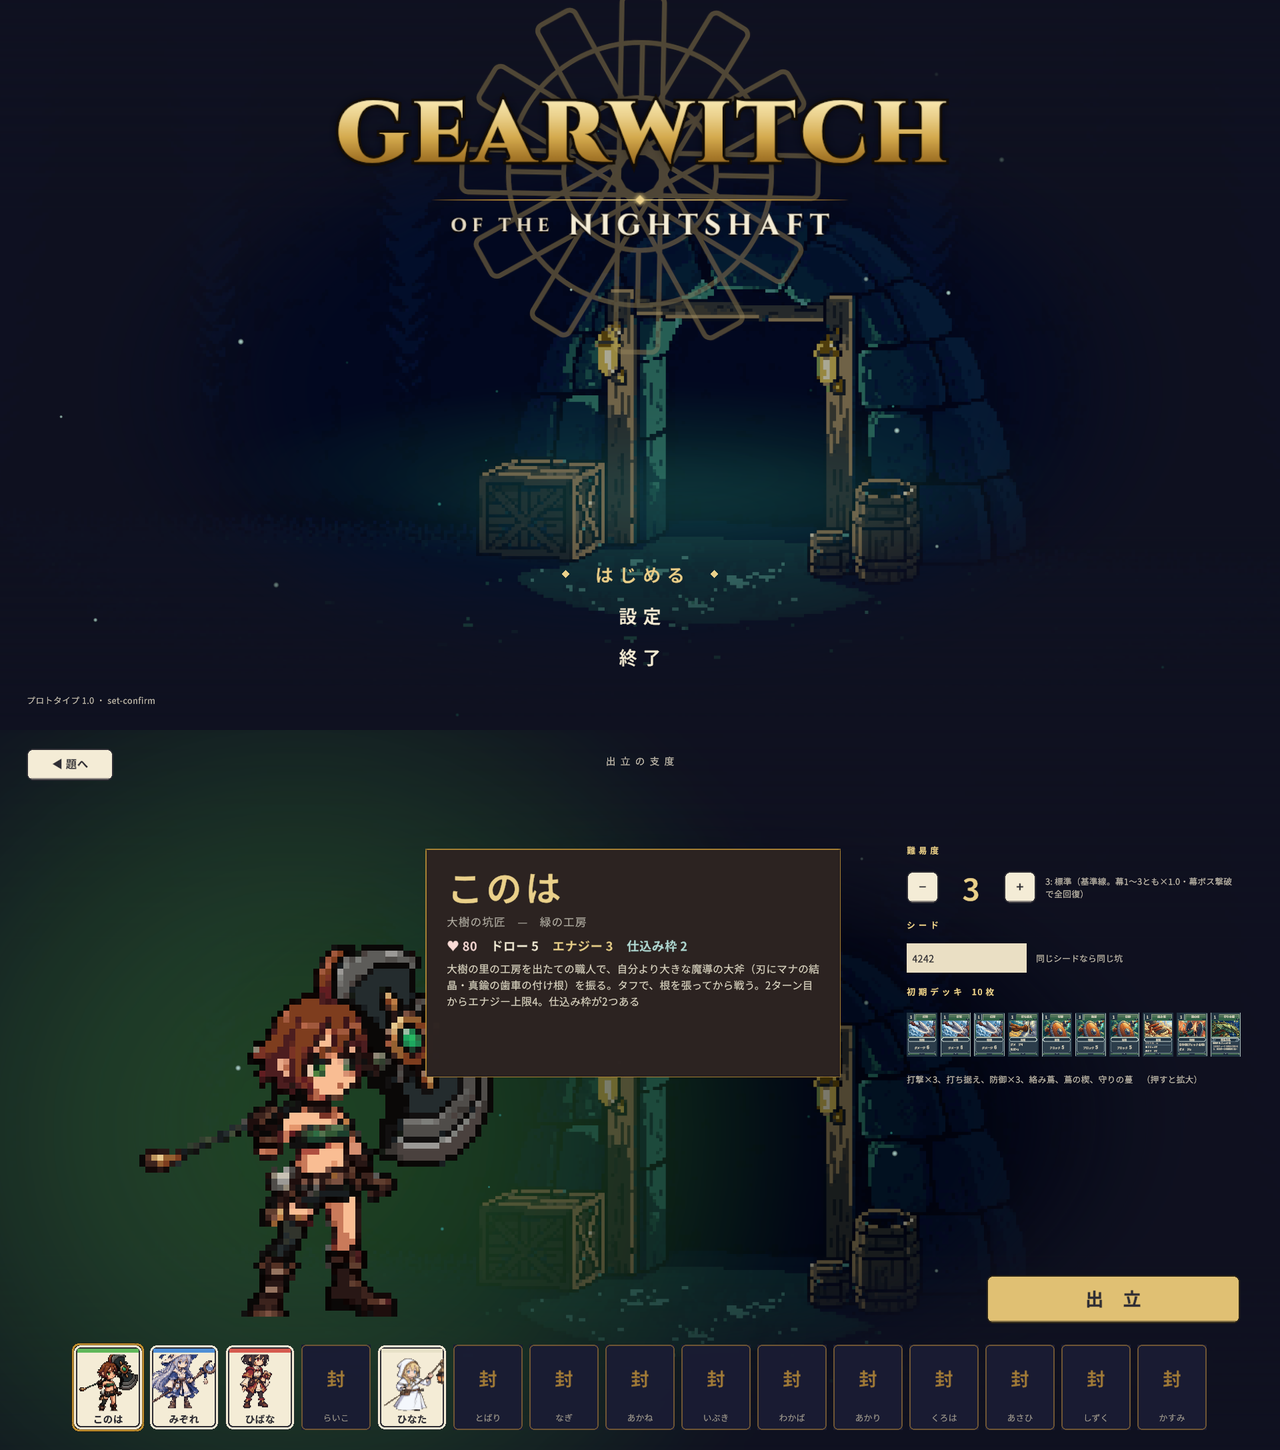
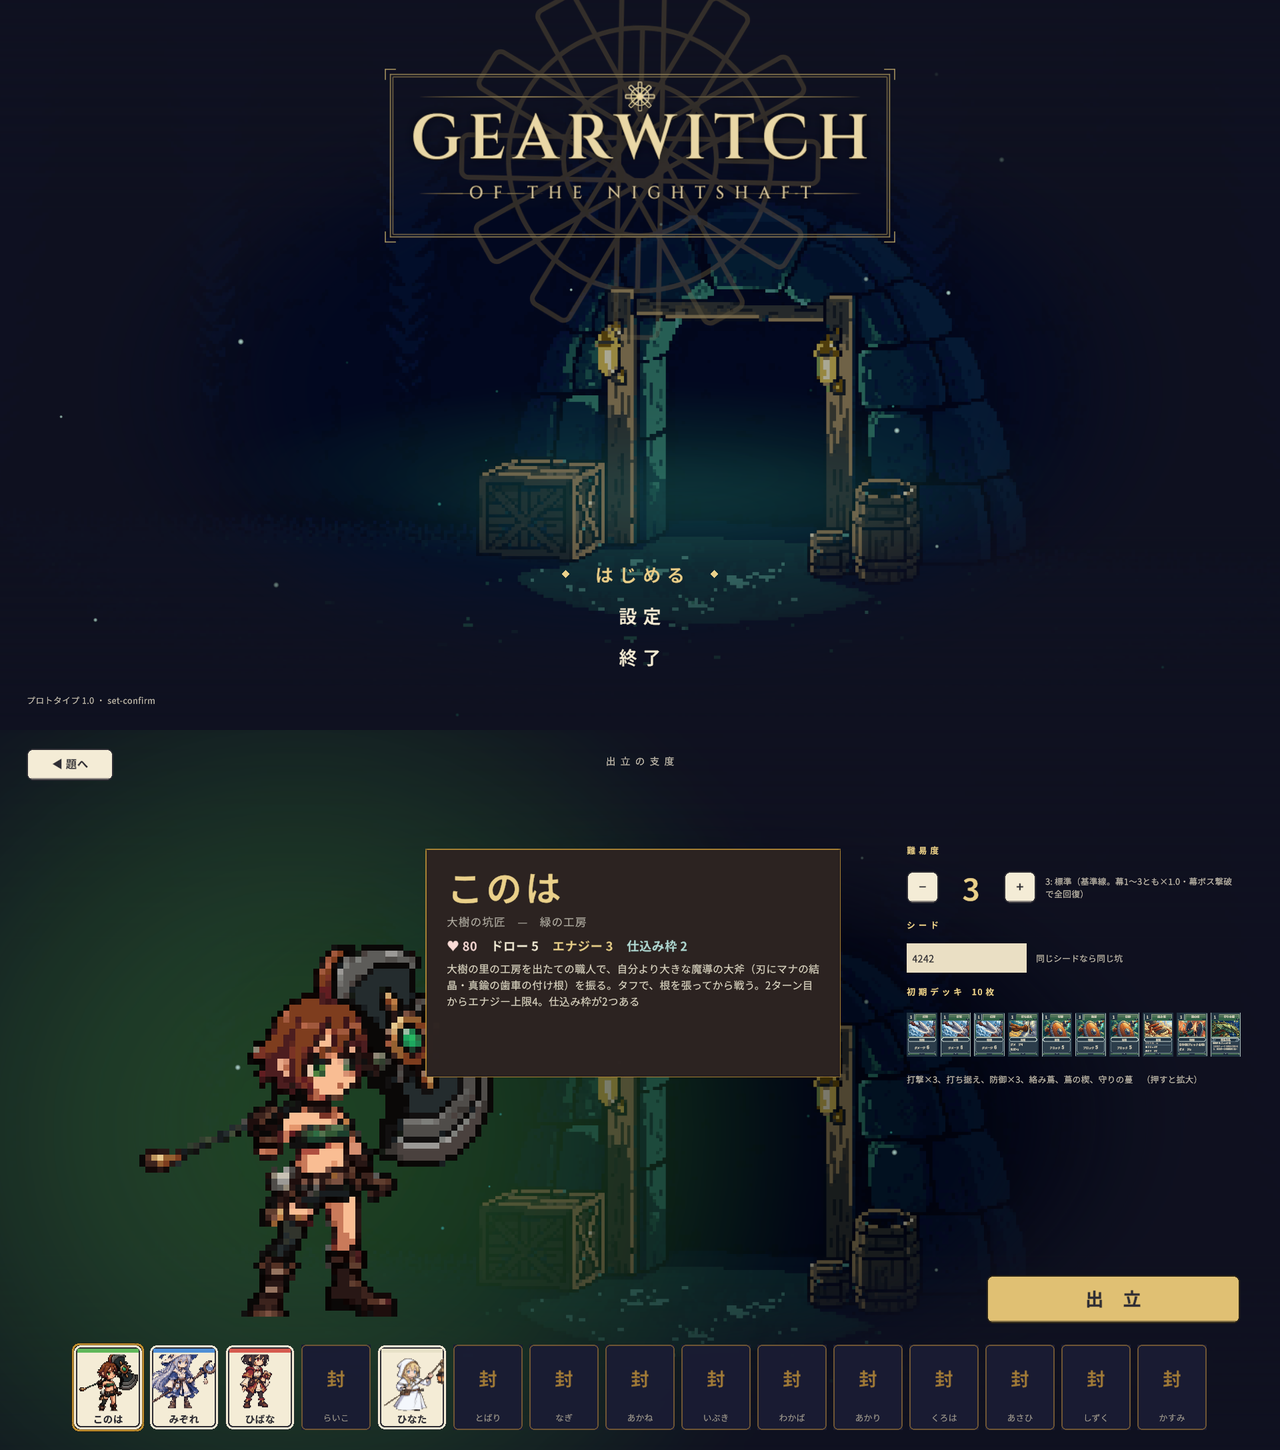
ui(title): ロゴ＝案 1「オクトパストラベラー風」(ユーザー「1かな」) — 薄い金の明朝・細い二重の枠と角の印・小さな紋。題を 96 に上げ、後ろで回る紋は α .02 (Linear では薄い線画の α を 1 桁下げないと字に掛かる)
Claude-Session: https://claude.ai/code/session_01235vjjauSY25VrpCPXwiZo

Changed region(s): [[0.25, 0.0, 0.75, 0.2483]]

diff --git a/docs/design/quality-sprint/logo-title.html b/docs/design/quality-sprint/logo-title.html
@@ -1,28 +1,29 @@
 <!doctype html>
 <html lang="ja"><head><meta charset="utf-8">
 <link rel="preconnect" href="https://fonts.googleapis.com">
-<link href="https://fonts.googleapis.com/css2?family=Cinzel:wght@700;900&family=Shippori+Mincho+B1:wght@800&display=swap" rel="stylesheet">
+<link href="https://fonts.googleapis.com/css2?family=Cinzel:wght@500;600;700;900&family=Shippori+Mincho+B1:wght@800&display=swap" rel="stylesheet">
 <style>
 body{margin:0;background:transparent}
-/* 題のロゴ: 1600×440 (画面では 0.5〜0.6 倍で出す = なめらかな字) */
+/* 題のロゴ 案 1「オクトパストラベラー風」(2026-10-29 ユーザー裁定): 薄い金の明朝の大文字・細い二重の枠と角の印・上に小さな紋・下の段は間を広く。1600×440 (画面では 1000 幅 = 0.625 倍) */
 #logo{position:relative;width:1600px;height:440px;overflow:hidden}
-.yomi-unused{position:absolute;left:0;top:28px;width:100%;text-align:center;font-family:'Shippori Mincho B1',serif;font-weight:800;font-size:46px;letter-spacing:.5em;text-indent:.5em;color:#f4ecd6;text-shadow:0 0 2px #130d06,0 0 2px #130d06,0 3px 0 #130d06,0 0 18px rgba(0,0,0,.8)}
-.en{position:absolute;left:0;top:34px;width:100%;text-align:center;font-family:'Cinzel',serif;font-weight:900;font-size:206px;line-height:1;letter-spacing:.05em;text-indent:.05em;white-space:nowrap}
-.en span{position:relative;display:inline-block;color:transparent}
-.en span::before{content:attr(data-t);position:absolute;left:0;top:0;-webkit-text-stroke:14px #130d06;color:#130d06;text-shadow:0 8px 0 #130d06,0 0 30px rgba(0,0,0,.9)}
-.en span::after{content:attr(data-t);position:absolute;left:0;top:0;background:linear-gradient(180deg,#fff2c2 0%,#ead08a 28%,#d4aa4e 52%,#a87a2a 74%,#7a5218 100%);-webkit-background-clip:text;background-clip:text;color:transparent}
-.rule{position:absolute;left:300px;right:300px;top:290px;height:2px;background:linear-gradient(90deg,transparent,#c99a3a 18%,#ead08a 50%,#c99a3a 82%,transparent)}
-.rule i{position:absolute;left:50%;top:-7px;width:16px;height:16px;margin-left:-8px;background:#ead08a;transform:rotate(45deg);box-shadow:0 0 10px rgba(234,208,138,.9)}
-.sub{position:absolute;left:0;top:318px;width:100%;text-align:center;font-family:'Cinzel',serif;font-weight:700;font-size:70px;line-height:1;letter-spacing:.22em;text-indent:.22em;white-space:nowrap;color:#f4ecd6;text-shadow:0 0 2px #130d06,0 0 2px #130d06,0 0 3px #130d06,0 5px 0 #130d06,0 0 22px rgba(0,0,0,.85)}
-.sub small{font-size:44px;letter-spacing:.3em;color:#e6dcc6;vertical-align:8px}
+#logo .frame{position:absolute;left:200px;top:24px;width:1200px;height:392px;border:1.5px solid rgba(234,208,138,.6);box-sizing:border-box}
+#logo .frame2{position:absolute;left:207px;top:31px;width:1186px;height:378px;border:1.5px solid rgba(234,208,138,.36);box-sizing:border-box}
+#logo .corner{position:absolute;width:26px;height:26px;border:1.5px solid rgba(234,208,138,.95);box-sizing:border-box}
+#logo .t1{position:absolute;left:0;top:106px;width:100%;text-align:center;line-height:1;white-space:nowrap;font-family:'Cinzel',serif;font-weight:600;font-size:150px;letter-spacing:.12em;text-indent:.12em;color:#e9d7a6;text-shadow:0 0 1px #e9d7a6,0 3px 0 #2a1d08,0 0 26px rgba(0,0,0,.8)}
+#logo .t2{position:absolute;left:0;top:290px;width:100%;text-align:center;line-height:1;white-space:nowrap;font-family:'Cinzel',serif;font-weight:500;font-size:40px;letter-spacing:.62em;text-indent:.62em;color:#d9c8a0;text-shadow:0 2px 0 #2a1d08,0 0 14px rgba(0,0,0,.8)}
+#logo .ln{position:absolute;height:1px;background:linear-gradient(90deg,transparent,rgba(234,208,138,.9),transparent)}
 /* 歯車の紋: 1120×1120 の線画 (画面では α を落として回す) */
 #gear{position:relative;width:1120px;height:1120px}
 </style></head>
 <body>
 <div id="logo">
-  <div class="en"><span data-t="GEARWITCH">GEARWITCH</span></div>
-  <div class="rule"><i></i></div>
-  <div class="sub"><small>OF THE</small> NIGHTSHAFT</div>
+  <div class="frame"></div><div class="frame2"></div>
+  <div class="corner" style="left:188px;top:12px;border-right:0;border-bottom:0"></div><div class="corner" style="left:1386px;top:12px;border-left:0;border-bottom:0"></div><div class="corner" style="left:188px;top:402px;border-right:0;border-top:0"></div><div class="corner" style="left:1386px;top:402px;border-left:0;border-top:0"></div>
+  <svg style="position:absolute;left:764px;top:42px" width="72" height="72" viewBox="0 0 44 44"><g fill="none" stroke="#e9d7a6" stroke-width="1.1"><rect x="19.5" y="1" width="5" height="42" rx="0.8"/><rect x="19.5" y="1" width="5" height="42" rx="0.8" transform="rotate(45 22 22)"/><rect x="19.5" y="1" width="5" height="42" rx="0.8" transform="rotate(90 22 22)"/><rect x="19.5" y="1" width="5" height="42" rx="0.8" transform="rotate(135 22 22)"/><circle cx="22" cy="22" r="13"/><circle cx="22" cy="22" r="4" fill="#e9d7a6"/></g></svg>
+  <div class="ln" style="left:270px;width:470px;top:78px"></div><div class="ln" style="left:860px;width:470px;top:78px"></div>
+  <div class="t1">GEARWITCH</div>
+  <div class="ln" style="left:270px;width:300px;top:310px"></div><div class="ln" style="left:1030px;width:300px;top:310px"></div>
+  <div class="t2">OF THE NIGHTSHAFT</div>
 </div>
 <svg id="gear" viewBox="0 0 44 44" xmlns="http://www.w3.org/2000/svg">
   <g fill="none" stroke="#ead08a" stroke-width="0.55">

diff --git a/unity/Assets/Game/TitleScreen.cs b/unity/Assets/Game/TitleScreen.cs
@@ -46,7 +46,7 @@ namespace DeckRogue.Game
 
             // 紋 (題の後ろで薄く回る)
             float logoW = ph ? 760f : 1000f, logoH = logoW * 440f / 1600f;
-            float logoTop = ph ? 44f : 118f;
+            float logoTop = ph ? 36f : 96f;
             float logoCy = -(logoTop + logoH * 0.52f);   // 上端基準の y (題の字の中心)
             var gear = Theme.Art("ui", "gear_emblem");
             if (gear != null)
@@ -55,7 +55,7 @@ namespace DeckRogue.Game
                 var gi = new GameObject("emblem", typeof(RectTransform), typeof(Image)).GetComponent<Image>();
                 gi.transform.SetParent(root, false);
                 gi.sprite = gear; gi.raycastTarget = false; gi.preserveAspect = true;
-                gi.color = new Color(1f, 1f, 1f, 0.09f);   // Linear では α がカンバス (.16) より濃く見える (2026-10-29 1 回目の撮影)
+                gi.color = new Color(1f, 1f, 1f, 0.02f);   // Linear では α がそのまま線形に足され sRGB で持ち上がる＝.09 で線の頂点 85・.035 で 56 (地 21)。ロゴ案 1 は枠つきなので字に掛からない薄さに (2026-10-29 撮影 3 回)
                 UiKit.Anchor(gi.rectTransform, new Vector2(0.5f, 1f), new Vector2(0.5f, 1f), new Vector2(-gs / 2f, logoCy - gs / 2f), new Vector2(gs / 2f, logoCy + gs / 2f));
                 gi.gameObject.AddComponent<Spin>().DegPerSec = 6f;   // 1 分で 1 回転
             }

diff --git a/docs/design/quality-sprint-2026-10-28.md b/docs/design/quality-sprint-2026-10-28.md
@@ -400,10 +400,10 @@ PixelLab の発注（案の採択後）: 焚き火（炎 4 コマ）・このは
 ### 12-4. 裁定 2 回目と実装（2026-10-29 夜）
 
 - **裁定（ask_user＋チャット）**: 題名＝「考え直したい」→「夜坑を英語にすると？」→ **NIGHTSHAFT（英字だけ）** → 「タイトルに日本語いらない。夜坑のギアウィッチをいい感じに英語に」→ **GEARWITCH of the NIGHTSHAFT**（`docs/world.md` の未決を更新）。タイトル画面＝**C 紋と板、品書きは A の縦の字の列**。出立の支度＝**A 本家形**。
-- **ロゴ**: 1 回目の 6 案（A 刻印／B 紋章／C 鉄板／D 脈の光／E 古い本／F 帯と大文字。`quality-sprint/logo-6cases-2026-10-29.png`・`logo-variants.html`）はユーザー「どれも微妙」→ 「日本国産ゲームのロゴを元にして」→ 2 回目の 7 案（1 オクトパストラベラー風／2 ブレイブリーデフォルト風／3 FF 風／4 ゼノブレイド風／5 軌跡・FE 風／6 テイルズ風／7 ドラクエ風。`logo-7cases-jp-2026-10-29.png`・`logo-variants-jp.html`）→ **裁定待ち**。画面には暫定で A 刻印（`logo-title.html` → `scripts/render-logo.mjs` → `Art/ui/logo_title.png` 1600×440・`gear_emblem.png` 560）。ロゴの字は PNG（なめらか・Bilinear＝`ArtImporter` の例外 `logo_title`／`gear_emblem`／`Art/portraits/`）。
+- **ロゴ**: 1 回目の 6 案（A 刻印／B 紋章／C 鉄板／D 脈の光／E 古い本／F 帯と大文字。`quality-sprint/logo-6cases-2026-10-29.png`・`logo-variants.html`）はユーザー「どれも微妙」→ 「日本国産ゲームのロゴを元にして」→ 2 回目の 7 案（1 オクトパストラベラー風／2 ブレイブリーデフォルト風／3 FF 風／4 ゼノブレイド風／5 軌跡・FE 風／6 テイルズ風／7 ドラクエ風。`logo-7cases-jp-2026-10-29.png`・`logo-variants-jp.html`）→ **裁定＝1 オクトパストラベラー風（ユーザー「1かな」）**。薄い金の明朝（Cinzel 600・150px・字間 .12em）・細い二重の枠と角の印・上に小さな歯車の紋・下の段 OF THE NIGHTSHAFT は字間 .62em。画面では枠つきなので後ろの紋は α .02 に（**Linear では Image の α がそのまま線形に足されて sRGB で持ち上がる＝.09 で線の頂点 85／.035 で 56／地 21。薄い線画は α を 1 桁下げないと消えない**）、題は 96 の高さに。1 回目は暫定で A 刻印（`logo-title.html` → `scripts/render-logo.mjs` → `Art/ui/logo_title.png` 1600×440・`gear_emblem.png` 560）。ロゴの字は PNG（なめらか・Bilinear＝`ArtImporter` の例外 `logo_title`／`gear_emblem`／`Art/portraits/`）。
 - **実装（`TitleScreen.cs` を書き直し。`TitleScreen.Mode`＝"title"／"setup"・`GameRoot.BackToSetup` が "title" に戻す）**:
   - ①タイトル: `CampfireScreen.Backdrop(root,"bd_title",0.3)`（PixelLab の b＝石の門。`Art/scenes/bd_title`）＋周辺減光 .7＋上下の帯（`ThemeFx.Gradient`）。紋＝`gear_emblem` 560 を α .09 で題の後ろに置き `Spin`（6°/秒＝1 分で 1 回転）。題＝`logo_title` 1000×275（スマホ 760）。品書き＝`Row`（幅 440 の透明な押し場・字 28 Bold 字間 28・◆ 2 つ＝`MenuRow` がホバーで真鍮、誰にも触れていなければ「はじめる」に）: はじめる（Mode="setup"→`ScreenFx.Switch`）／つづきから（セーブがある時。右に要約と小さな「放棄」）／設定／終了。脈の霧＝`Mist`×2（`MapForest.Radial` の青緑 α .14 を `Drift` で横に流す）・粒＝`Motes`（22 個・昇りながら明滅）。左下に版・右下に「前回のランのレポートを書き出す」（記録がある時）。
   - ②出立の支度: 同じ一枚絵を .5 で沈め、選んだ色の `Radial` で左を染める。立ち絵＝`Portrait`（`Art/portraits/<id>` があれば高さ 800〔スマホ 440〕、無ければ戦闘のちびを整数倍 9〔スマホ 4〕。**足元は絵の下端の透明な行を `BottomMargin` で画素から読んで合わせる**＝1 回目は足が名簿に重なった）。名前の板＝`NameCard`（夜色 α .86＋真鍮の Outline・名前 56 真鍮・肩書〔説明文の最初の文〕＋色の工房・♥HP／ドロー／エナジー／仕込み枠・本文）。右の列＝`RightColumn`（難易度の −／数字 48／＋と説明・シード〔`RunScreens.MakeSeedField`〕・初期デッキ 10 枚を `CardView.Build` の 0.235 倍で並べ押すと `CardPopup`・「出立」380×72 真鍮＋脈）。名簿＝`Slot` 15 枠（104×128・絵のある 4 人は紙の札に色の帯とちび 1.5 倍〔RectMask2D〕、無い 11 人は夜色の「封」＝押せない・Tooltip「まだ坑に入れない」。選択中は真鍮の Outline 3px）。左上「◀ 題へ」・中央に「出 立 の 支 度」。
   - 撮影の口: `phase=title`／`phase=setup;leader=<id>`（`Autopilot.StateJump` の先頭で分岐。ランは作らない）。
 - **確認**（`quality-sprint/title-impl-pc-2026-10-29.png`・`title-impl-phone-2026-10-29.png`）: PC・スマホとも 2 画面が出る。1 回目の直し 3 点＝紋が濃い（.16→.09）・絵が暗い（dim .38→.3）・足が名簿に重なる（画素の余白を読む）。exe へ複製済み。
-- **残り**: ロゴの裁定（7 案）→ PNG の差し替え／ChatGPT の立ち絵 4 枚（発注書 §12-2）→ `Art/portraits/`／ユーザー採点。
+- **残り**: ChatGPT の立ち絵 4 枚（発注書 §12-2）→ `Art/portraits/`／ユーザー採点。
